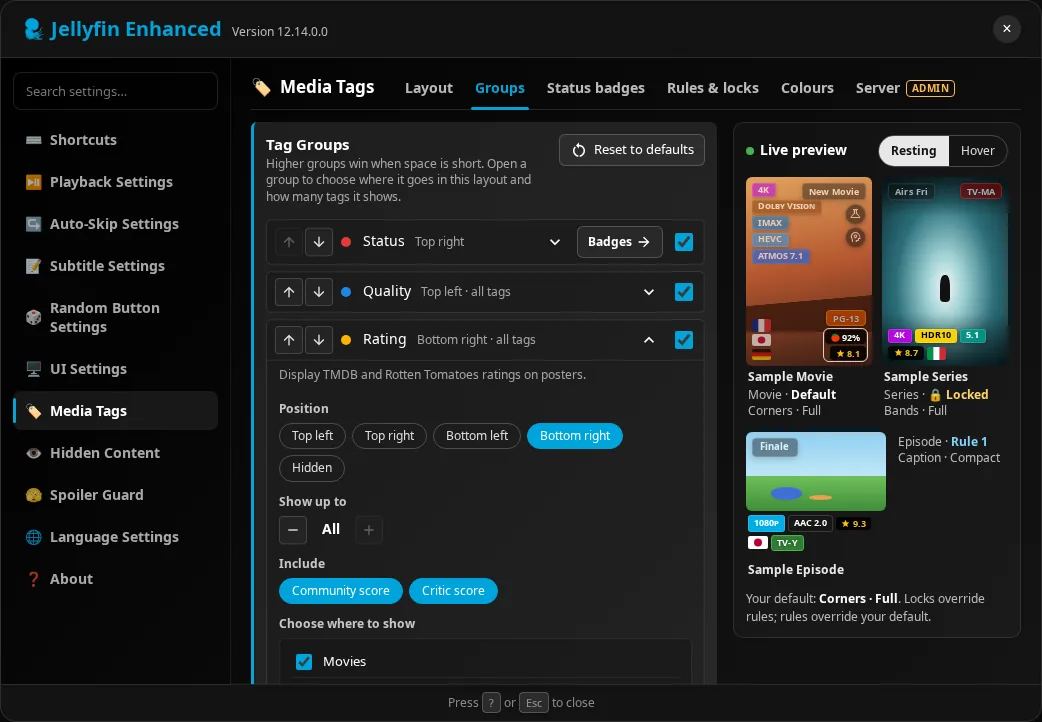
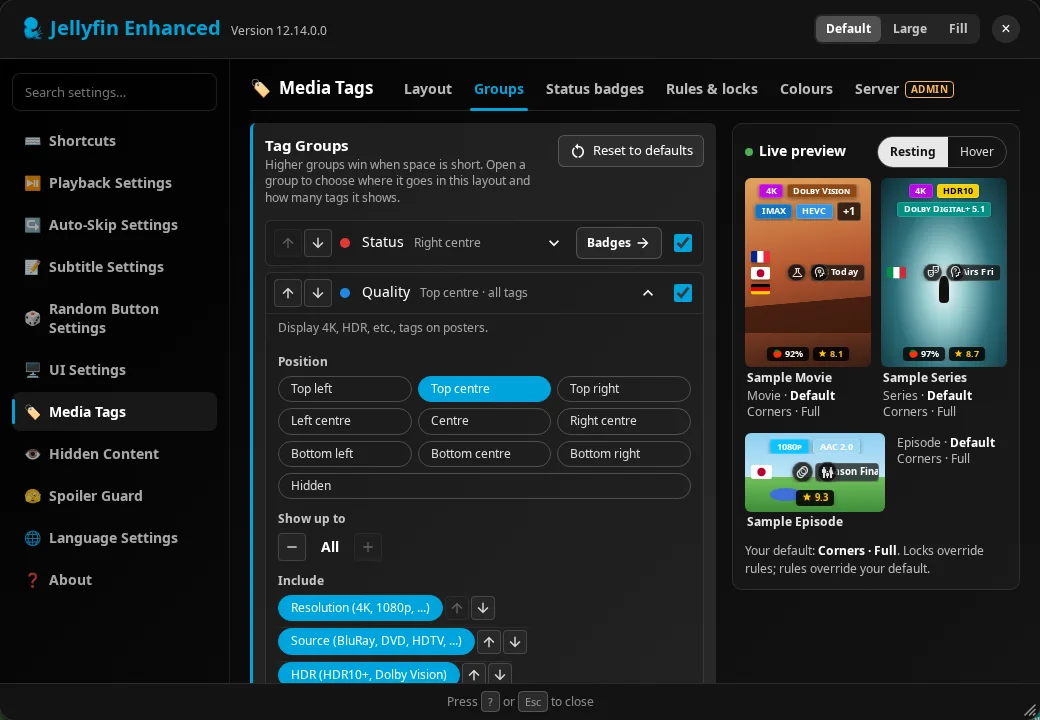
docs(tags): document centre anchors and record lab verification

diff --git a/Jellyfin.Plugin.JellyfinEnhanced/Services/PosterTags/PosterTagModel.cs b/Jellyfin.Plugin.JellyfinEnhanced/Services/PosterTags/PosterTagModel.cs
@@ -2,7 +2,7 @@ using System.Collections.Generic;
 
 namespace Jellyfin.Plugin.JellyfinEnhanced.Services.PosterTags
 {
-    /// <summary>Card corner a tag group is anchored to.</summary>
+    /// <summary>Card anchor for a tag group (four corners and five centre positions).</summary>
     public enum PosterTagCorner
     {
         TopLeft,

diff --git a/docs/enhanced/tags.md b/docs/enhanced/tags.md
@@ -96,7 +96,7 @@ A layout decides where the poster groups appear and how much of each you see. Pi
 
 | Layout | Where tags go | Default arrangement |
 |---|---|---|
-| **Corners** (default) | One stack per corner of the poster; groups sharing a corner stack with a small gap | Quality top left, genre and status top right, language bottom left, rating and age rating bottom right |
+| **Corners** (default) | Nine anchors: four corners, top/bottom centre, left/right centre and centre; groups sharing an anchor keep their priority order | Quality top left, genre and status top right, language bottom left, rating and age rating bottom right |
 | **Bands** | A gradient band along the top (first group left, the others right) and one along the bottom that wraps; the middle of the poster stays clear | Status and age rating on top; quality, rating and language at the bottom; genre hidden |
 | **Caption** | A strip below the poster, between the image and the title, plus a small stack at the poster's top left | Status on the poster; quality, rating, age rating and language in the caption; genre hidden |
 | **Summary** | One pill at the bottom of the poster with up to three short facts (for example `Just Added · 4K DV · ★ 8.1`); every group's full chips appear over a dark scrim on hover or keyboard focus | Status, quality and rating in the pill; genre, language and age rating on hover |
@@ -105,6 +105,10 @@ A layout decides where the poster groups appear and how much of each you see. Pi
 === "Corners"
 
     ![Movie posters with quality, genre, language, rating and age rating tags in the four corners](../images/tags/tag-layout-corners.webp)
+
+=== "Centre anchors"
+
+    ![Movie posters with quality at top centre, language at left centre, genres in the centre and ratings at bottom centre](../images/tags/tag-layout-centres.webp)
 
 === "Bands"
 
@@ -128,13 +132,13 @@ Each group has a row on the **Groups** tab, highest priority first. Groups highe
 
 Open a row to change it:
 
-- **Position:** the places the selected layout offers, plus **Hidden**. Changing the layout re-labels every row. **Dots** is offered to quality only.
+- **Position:** the places the selected layout offers, plus **Hidden**. Corners offers a 3×3 grid: top left, top centre, top right; left centre, centre, right centre; bottom left, bottom centre, bottom right. Changing the layout re-labels every row. **Dots** is offered to quality only.
 - **Show up to:** how many tags the group shows, from 1 to 10. Quality and rating also offer **All**. Age rating and status always show one.
 - **Include:** the quality categories with their stack order, or the rating group's **Community score** and **Critic score**. Other groups have nothing to choose here.
 
 The limit applies after each group's own filtering (quality categories, language grouping and priority, rating scopes). **Reset to defaults** restores the administrator's layout, density, positions, order and limits; your group switches and include choices stay.
 
-![The Groups tab with the rating row open: position pills, the Show up to stepper and the community and critic score switches; the preview outlines the rating chips](../images/tags/tag-group-editor.webp)
+![The Groups tab with quality open: nine Position pills in a 3×3 grid, Hidden, the Show up to stepper and a live preview with centre anchors](../images/tags/tag-group-editor.webp)
 
 | Setting | Default | What it does |
 |---|---|---|
@@ -142,11 +146,13 @@ The limit applies after each group's own filtering (quality categories, language
 | Personal: **Label Density** / admin: **Default Label Density** | **Full** | **Compact** shortens quality labels (`Dolby Vision` → `DV`, `HDR10+` → `HDR+`, `ATMOS 7.1` → `ATMOS`, `Dolby Digital+ 5.1` → `5.1`) and hides the critic score when a community score is shown |
 | **Tag Groups** order | Status, quality, rating, age rating, language, genre | Priority order of the groups |
 | **Show up to** | Genre 3, language 3, age rating 1, status 1, quality and rating all | The same limits as before layouts existed |
-| **Position** — Quality / Genre / Language / Rating / Age Rating / Status Tags | Corners: **Top Left** / **Top Right** / **Bottom Left** / **Bottom Right** / **Bottom Right** / **Top Right** | The corner a group uses in the Corners layout; the admin **Position** selects set these defaults |
+| **Position** — Quality / Genre / Language / Rating / Age Rating / Status Tags | Corners: **Top Left** / **Top Right** / **Bottom Left** / **Bottom Right** / **Bottom Right** / **Top Right** | Any of the nine anchors in the Corners layout; the admin **Position** selects set these defaults |
 | Admin / personal: **Hide Tags on Hover** | Off | Fades web poster tags when you hover over a card, making its buttons easier to see; new and overwritten personal settings take the admin value |
 | Admin: **Disable Tags on Search Page** | Off | Suppresses the poster tags on Jellyfin web search results, including age-rating and review chips; useful for compatibility with Gelato |
 
-Top-right groups move below Jellyfin's watched or unplayed-count indicator. People Tags have their own cast-card layout and no position.
+The four default corners keep their original appearance. Top and bottom centre wrap chips into centred rows (up to two); left and right centre stack chips vertically. Centre rows reserve the width occupied by corner groups; side columns reserve the height of their neighbouring corner stacks. When eligible chips exceed the available space, a **+N** chip names the hidden tags on hover or focus. Group limits apply before fitting.
+
+Top-right groups move below Jellyfin's watched or unplayed-count indicator. Top centre reserves space for side indicators and moves below any top-centre Jellyfin indicator; bottom centre clears a card's progress bar when present. People Tags have their own cast-card layout and no position.
 
 With **Hide Tags on Hover** off, genre names expand beside their icons on hover. Turn it on to fade poster tags instead.
 
@@ -720,7 +726,9 @@ Native Poster Tags add your enabled poster groups to images shown in eligible na
 ??? info "Supported groups and preferences"
     JE draws tags into Primary images for movies, series, seasons, episodes, collections, and videos. Supported groups are quality, genre, language, community/critic rating, user-review, and age-classification. People Tags are not a native group.
 
-    It uses personal tag switches, quality categories/order, sound-language preference, rating item-type scopes and score includes, together with the administrator's language-priority policy. Native posters always draw the Corners layout, whatever web layout the user picked: the Corners positions, groups hidden there, the group order (an order you set; otherwise the original stacking order) and the **Show up to** limits apply. Labels stay full; compact density is web only. Status Tags are web only.
+    It uses personal tag switches, quality categories/order, sound-language preference, rating item-type scopes and score includes, together with the administrator's language-priority policy. Native posters always draw the Corners layout, whatever web layout the user picked: the Corners positions, groups hidden there, the group order (an order you set; otherwise the original stacking order) and the **Show up to** limits apply. All nine Corners anchors are supported, including centred rows and side columns. Labels stay full; compact density is web only. Status Tags are web only.
+
+    **Centre-anchor differences:** native posters omit whole chips that do not fit, without the web's **+N** tooltip. Very wide chips in side columns are omitted rather than squeezed. The image request cannot reproduce the web card's progress bar, Jellyfin indicators or custom overlays, rules or per-item locks; native placement uses the saved Corners profile. The four default corner positions are unchanged.
 
 ### Eligible clients and requests
 

diff --git a/.notes/verification-centres.md b/.notes/verification-centres.md
@@ -1,0 +1,72 @@
+# Centre anchors — verification and handoff
+
+Branch: `feat/tag-layouts-centres`, the supplied checkout started at `16355dba` (including earlier panel fixes above `e4089266`). Assigned worktree: `/home/jake/je-wt/tl-centres`.
+
+## Changes
+
+- Corners accepts `tl`, `tc`, `tr`, `ml`, `c`, `mr`, `bl`, `bc`, `br`, plus `off`, on client, server, admin editor, personal hub and rules/locks.
+- Legacy values map both ways: `top-center`, `bottom-center`, `center-left`, `center-right`, `center`. Unknown strings retain the previous fallback behavior.
+- The hub has nine translated Position pills in spatial 3×3 order, with Hidden beneath. Its existing preview uses the real placement code.
+- Centre rows wrap and fit at most two rows. Side columns fit whole chips on short cards. Existing caps apply first, then fitting uses `+N` and accessible hidden-chip descriptions. The four original corners stay outside the new geometry work; `corners` remains outside `FIT_LAYOUTS`.
+- Batched reads measure occupied corner stacks, side/top-centre indicators and progress bars before writing centre budgets. Existing top-right indicator handling is unchanged.
+- Native posters parse, resolve, plan and paint every new anchor. Renderer pixel version bumped to 2. The static renderer omits whole overflowing chips without a `+N` tooltip; exceptionally wide side chips are omitted. It cannot reproduce web-only rules/locks or external Jellyfin overlays. These differences are documented.
+
+## Checks
+
+| Check | Result |
+| --- | --- |
+| `node tests/frontend/run.mjs` | 887 passed, 0 failed |
+| `dotnet test tests/backend -p:JellyfinTarget=jf12` | 1,047 passed, 0 failed, 0 skipped |
+| Release jf12 build, `/tmp/je-build-centres-jf12` | 0 warnings, 0 errors |
+| Release jf10 build, `/tmp/je-build-centres-jf10` | 0 warnings, 0 errors |
+| Offline native/web resolver parity | 50 profiles, 101 synthetic metadata entries; 0 differences |
+| English translation validator | Passed |
+| Production inventory `--check` | Current; no regeneration needed |
+| Config flag groups generator | Ran; no generated diff |
+| `git diff --check` | Passed |
+| Docs images | Viewed; all Markdown image links checked |
+
+The backend test project emits its two existing ASP.NET deprecation warnings (`ASPDEPR004`, `ASPDEPR008` in `ApiRoutingTests.cs`). The plugin release builds have no warnings.
+
+Regression coverage includes legacy migration and promotion, unknown-slot dropping, editor order and save transport, live preview, caps and `+N`, short side columns, corner/indicator/progress reserves, rule and lock snapshots, server settings round trips, native anchor coordinates, native raster output, and preservation of existing corner coordinates when new anchors are added.
+
+## Lab evidence
+
+Only `je-lab-centres`, `http://127.0.0.1:18537`, was used. The container already existed when this work started; no containers, networks or volumes were created. Its lifecycle remains with the coordinator: it is left running, as the skill forbids stopping a container this worker did not create. No shared lab was touched.
+
+`real-admin` configured through the hub: quality → top centre, status → right centre, rating → bottom centre, language → left centre, genre → centre. The series-status badge family was enabled through the hub so real Ended badges demonstrate right-centre placement. Reload verifies the saved settings. Disabling all six groups removes all card tag groups; restoring and reloading restores the five new slots. `real-viewer` retains its original four-corner settings. Frontend tests also exercise session/user switching.
+
+All screenshots are under `.notes/shots/centres/`:
+
+| Shot | Contents |
+| --- | --- |
+| `hub-groups-desktop.png`, `hub-groups-phone.png` | Quality editor, nine Position pills and preview at 1400px and 420px |
+| `movies-1400.png`, `movies-420.png` | Movies grid with centre anchors |
+| `series-1400.png`, `series-420.png` | 13 Reasons Why page; right-centre Ended badge |
+| `series-seasons-1400.png`, `series-seasons-420.png` | Next Up episode and season cards, including count indicators |
+| `legacy-viewer-{home,movies}-after.png` | Full default-viewer screenshots |
+| `legacy-viewer-{home,movies}-reference-before.png` | Copies of the required phase-1a references |
+| `legacy-viewer-{home,movies}-reference-crop.png` | Final screenshots cropped to the reference framing |
+| `legacy-viewer-{home,movies}-cropped-diff.png` | ImageMagick comparison outputs |
+
+The phase-1a reference images are 1400×660 crops beginning at y=90, rather than complete 1400×900 frames. Applying exactly that crop to the final screenshots produces `compare -metric AE` **0 (0)** for both home and movies. No reference pixels were changed.
+
+Season-card geometry checks also find zero top-centre/indicator overlaps at both widths. The screenshot helper reports `failed:0`, `guardedImages:0`. There are no JE console errors or page errors. Jellyfin logs tokenless `/socket` handshake failures and missing source poster files; browser logs reflect those known server failures. Some navigations also emit a transient existing TagPipeline cache-fetch warning and use its batch fallback. The server also logged three canceled tag-cache requests during navigation, matching that fallback warning; no server error attributable to the anchor change was found.
+
+The lab helpers are `.notes/lab-centres.mjs` (a local copy of the shared helper), `.notes/lab-centres-steps.mjs` (hub configuration and shots), and `.notes/lab-centres-checks.mjs` (season indicators and feature-off/restore). They run without embedded credentials, using the established lab account file.
+
+## Documentation
+
+- `docs/enhanced/tags.md`: nine anchors, wrapping/fitting, indicator reserves, default appearance, native differences, screenshot.
+- `docs/enhanced/enhanced-settings.md`: 3×3 Position options.
+- `docs/advanced/css-customization.md`: all nine `data-je-slot` hooks, position strings, layout and overflow hooks.
+- Replaced `docs/images/tags/tag-group-editor.webp`; added `docs/images/tags/tag-layout-centres.webp`.
+- `tests/poster/parity/README.md`: updated profile count and centre fixture coverage.
+
+## Limits and pending choices
+
+No native app was driven end to end; the resolver, planner and actual native renderer were tested. No 10.11 runtime was used (only jf10 compilation), as this task is confined to the assigned 12.1 lab. MkDocs is unavailable, so a full site build was not run; Markdown image links were checked. No independent review agent was used, in accordance with the no-child-agent instruction.
+
+Open provisional rows in `.notes/pending-questions.md`: **CT-1** (measured occupied-corner reserves) and **CT-2** (native omission of overflowing chips, documented). No answers were fabricated and neither choice blocked work.
+
+No push and no PR.

diff --git a/docs/advanced/css-customization.md b/docs/advanced/css-customization.md
@@ -225,7 +225,7 @@ The normal poster structure places `.je-tag-host` inside `.cardScalable`, before
 
 | Layout | Slots |
 | --- | --- |
-| Corners | `tl`, `tr`, `bl`, `br` |
+| Corners | `tl`, `tc`, `tr`, `ml`, `c`, `mr`, `bl`, `bc`, `br` (3×3 order) |
 | Bands | `top`, `bottom` |
 | Caption | `poster`, plus the outlet `.je-tag-caption` (`caption`) between `.cardScalable` and the title block, outside the image |
 | Summary | `pill` (holds `.je-tag-pill` with `.je-tag-pill-fact` spans), `hover` |
@@ -244,7 +244,7 @@ What does not fit is hidden whole, never cut: once a card is laid out, chips tha
 | `.age-rating-overlay-container` | `AgeRatingTagsPosition` | `bottom-right` |
 | `.status-overlay-container` | `StatusTagsPosition` | `top-right` |
 
-In the Corners layout, containers carry `data-je-corner` with one of those four corner values. Containers sharing a corner stack in their slot with a 4px gap (top corners downward, bottom corners upward) instead of inline transforms. When a group is set to top right and the card shows Jellyfin's played or unplayed-count indicator, the host gets `data-je-indicator-gap` and the `tr` slot moves below it. Settings saved before layouts existed keep the original rule instead (their host carries `data-je-legacy`): only the container of a group set to exactly `top-right` carries `data-je-indicator-gap` and moves below the indicator, with the containers stacked after it; and on screens up to 480px wide the rating, age rating and status containers sit 4px from the card edges instead of 6px. Position slots rather than containers when you move tags: a container's own `top`, `left` or `transform` no longer places it.
+In the Corners layout, containers carry `data-je-corner` with one of the nine stored position values (`top-left`, `top-center`, `top-right`, `center-left`, `center`, `center-right`, `bottom-left`, `bottom-center`, `bottom-right`). Containers sharing a corner stack in their slot with a 4px gap (top corners downward, bottom corners upward) instead of inline transforms. When a group is set to top right and the card shows Jellyfin's played or unplayed-count indicator, the host gets `data-je-indicator-gap` and the `tr` slot moves below it. Settings saved before layouts existed keep the original rule instead (their host carries `data-je-legacy`): only the container of a group set to exactly `top-right` carries `data-je-indicator-gap` and moves below the indicator, with the containers stacked after it; and on screens up to 480px wide the rating, age rating and status containers sit 4px from the card edges instead of 6px. The centre hooks are `tc` (top centre), `bc` (bottom centre), `ml` (left centre), `mr` (right centre) and `c` (centre). The rows use horizontal flex wrapping with centred chips; side anchors use columns aligned to their edge. Their group wrappers use `display: contents`, retaining the chip classes. Batched measurements set `--je-anchor-reserve` on these slots to keep them clear of occupied corner stacks; `--je-anchor-top` and `--je-anchor-bottom` clear native web overlays. Their excess chips use the same `data-je-overflow` and `.je-tag-more` hooks as flowing layouts. The original four corner geometry rules stay unchanged. Position slots rather than containers when you move tags: a container's own `top`, `left` or `transform` no longer places it.
 
 A card whose look comes from a lock (see [Rules and locked items](../enhanced/tags.md#rules-and-locked-items)) has `data-je-locked="1"` on its `.je-tag-host`; nothing styles it by default. For example, `.je-tag-host[data-je-locked="1"] { outline: 1px dashed #fff8; }` marks locked cards.
 

diff --git a/docs/enhanced/enhanced-settings.md b/docs/enhanced/enhanced-settings.md
@@ -283,7 +283,7 @@ Everything about poster tags for your account: the layout, the tag groups, statu
     | --- | --- | --- |
     | Move up / move down | Status, quality, rating, age rating, language, genre | Sets the priority order. Higher groups win when space is short. |
     | Group switch | Off | Turns the group's tags on or off. |
-    | **Position** | Depends on the layout | Where the group goes in the selected layout, or **Hidden**. Corner picks also set the position Native Poster Tags use. |
+    | **Position** | Depends on the layout | Where the group goes in the selected layout, or **Hidden**. Corners offers a 3×3 grid with four corners, top/bottom centre, left/right centre and centre. These picks also set the position Native Poster Tags use. |
     | **Show up to** | Genre 3, language 3, age rating and status 1, quality and rating **All** | How many tags the group shows (1–10, or **All** for quality and rating). |
     | **Include** | All on | Quality: the categories, their stack order and the sound language. Rating: **Community score**, **Critic score** and where to show ratings. Status: the **Badges** button opens **Status badges**. |
     | **Reset to defaults** | — | Restores the administrator's layout, density, positions, order and limits. Group switches and includes stay. |
